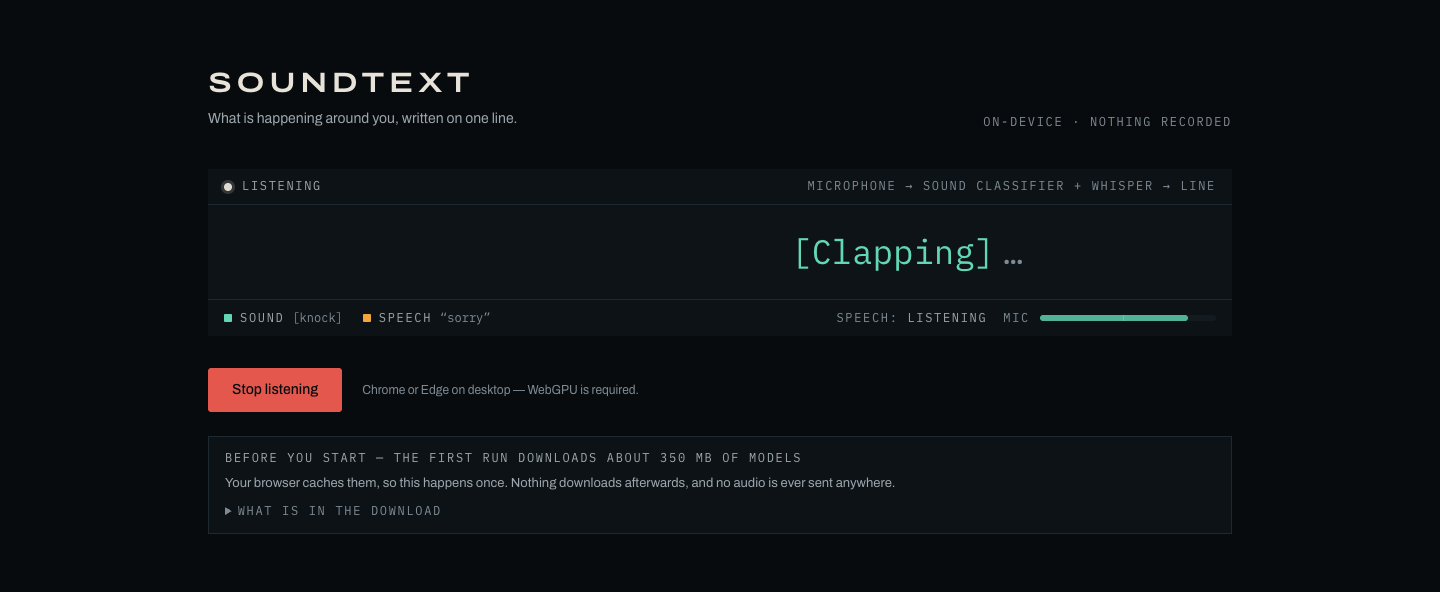
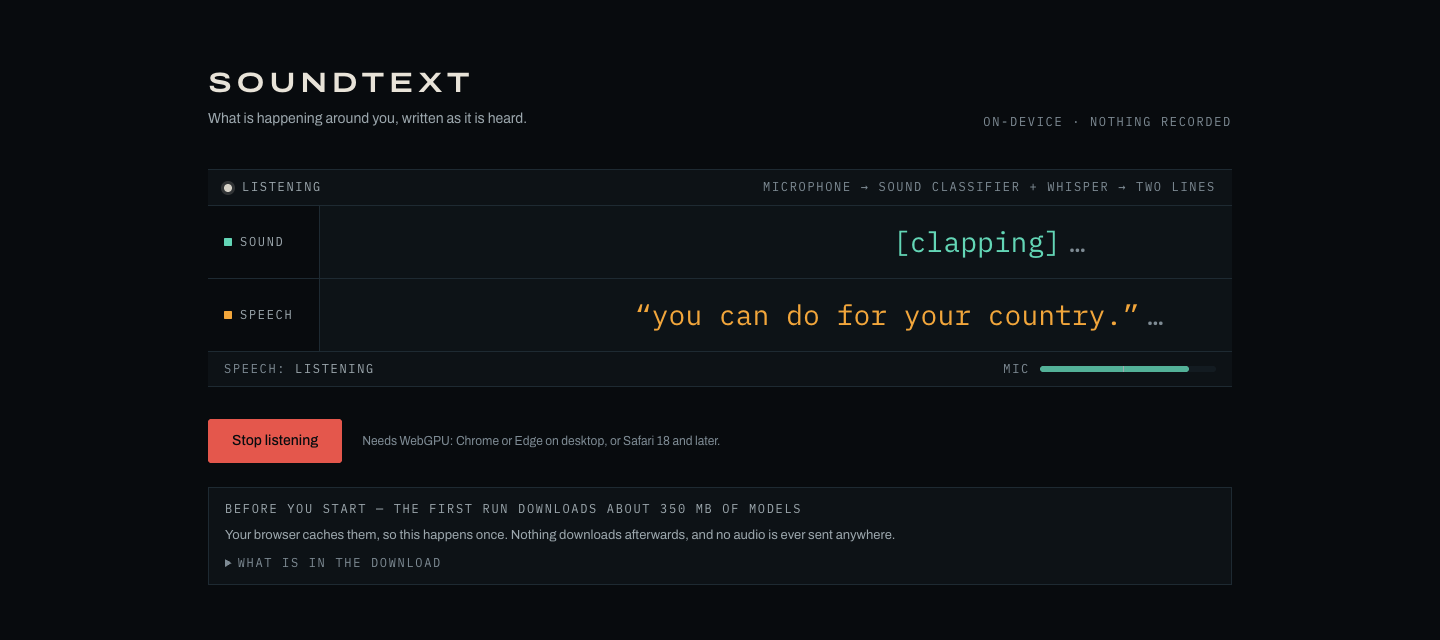
Update docs and cover for the two-lane display
Cover retaken with a mic file that carries both a clap and speech, so both
lanes are live in the shot.

diff --git a/docs/architecture.md b/docs/architecture.md
@@ -13,12 +13,15 @@ mic ──► 16 kHz mono, 2 s windows, AudioWorklet (web/src/worklets/pcm-workl
                                                                │
                                         ┌──────────────────────┴──────────────────────┐
                                         ▼                                             ▼
-                              browser: rAF marquee                    glasses: tickerText(queue)
-                              (smooth, 70 px/s)                       (snapshot on change)
+                              browser: two lanes, rAF marquee        glasses: tickerText(queue)
+                              (sound above, speech below,            (snapshot on change)
+                               90 px/s, filtered by kind)
 ```
 
-The two paths never share a model and never block each other. Speech's model
-download happens in the background after the sound path is already live.
+The two paths never share a model and never block each other — including on
+screen: each lane positions its own tokens, so a slow transcript cannot hold up
+a sound. Speech's model download happens in the background after the sound path
+is already live.
 
 ## Sound path — `web/src/lib/sound.ts`
 
@@ -31,6 +34,13 @@ download happens in the background after the sound path is already live.
 3. **Noteworthiness.** A label is queued only if it clears `MIN_SOUND_SCORE`
    (0.2), differs from the last one shown, and respects `SOUND_COOLDOWN_MS`
    (2 s). The same label re-announces after `SOUND_RENOTIFY_MS` (12 s).
+4. **Speech ownership.** AST also labels speech, and it fires first: `[Speech]`
+   lands a second or two before the transcript and says less. Labels in
+   `SPEECH_LABELS` are dropped **while the speech channel is listening** — if
+   Whisper is unavailable, `[Speech]` is the only signal there is, so it stays.
+   Labels Whisper cannot transcribe (`Whispering`, `Chatter`,
+   `Hubbub, speech noise, speech babble`) are never dropped: they carry news
+   the transcript will not carry.
 
 ### Why a trained classifier, not embeddings
 
@@ -67,9 +77,13 @@ bundler-usable location. The ORT version must match the one vad-web resolves.
 
 ## Display — `web/src/components/Ticker.tsx`
 
-One line, constant speed, tokens entering right and exiting left.
-`TickerItem[]` is the source of truth; `tickerText(items, max)` renders the same
-queue as a single line.
+Two lanes, constant speed, tokens entering right and exiting left. The upper
+lane takes `kind: "sound"`, the lower takes `kind: "speech"`, and each lane runs
+its own rAF loop and its own token positions. Sound labels are lower-cased on
+the way into the queue (model output `Clapping` prints as `[clapping]`);
+transcripts keep their own casing because they are quotes. `TickerItem[]` is the
+source of truth; `tickerText(items, max)` renders a lane, or both merged, as a
+single line.
 
 Two details worth preserving:
 

diff --git a/web/README.md b/web/README.md
@@ -1,7 +1,7 @@
 # SoundText
 
 PoC: a single-page webapp that listens to the microphone and shows a stream of
-what it hears — sound events and nearby speech — as one ticker.
+what it hears as two scrolling lines: sound events above, nearby speech below.
 
 - **Stack:** Vite + React + TypeScript + Tailwind CSS (v4), no backend
 - **Sound events:** [AST](https://huggingface.co/onnx-community/ast-finetuned-audioset-10-10-0.4593-ONNX) — an AudioSet-trained classifier (527 classes) via transformers.js on WebGPU
@@ -43,6 +43,12 @@ which is what makes `navigator.gpu` available (it is `undefined` on
 4. A label reaches the ticker only if it clears `MIN_SOUND_SCORE` (0.2) and
    differs from the last one shown (`SOUND_COOLDOWN_MS` bounds the rate; the
    same label re-announces after `SOUND_RENOTIFY_MS`).
+5. Labels in `SPEECH_LABELS` (`Speech`, `Conversation`, and similar) are
+   dropped while the speech channel is listening. AST fires first with the
+   vaguer token, and the transcript says the same thing better. If Whisper is
+   unavailable, `[Speech]` is the only signal left, so it is kept.
+   `Whispering`, `Chatter` and `Hubbub, speech noise, speech babble` are never
+   dropped — Whisper cannot transcribe those, so they stay as sound events.
 
 **Speech path** (`src/lib/speech.ts`)
 
@@ -55,11 +61,14 @@ weights in a bundler-usable location.
 
 **Display** (`src/components/Ticker.tsx`)
 
-One line, moving right→left: sounds as `[clap]`, speech as `“sorry”`. Tokens
-queue behind whatever is still on screen, so a burst of detections streams in
-one at a time rather than dumping. `tickerText(queue)` renders the same queue as
-a single line for a Meta glasses layout (DAT has no partial updates, so the
-glasses get whole snapshots re-sent on change, not a pixel scroll).
+Two lanes, moving right→left: `[clap]` on the sound lane, `“sorry”` on the
+speech lane. Each lane owns its rAF loop and its token positions, so a slow
+transcript cannot hold up a sound. Tokens queue behind whatever is still on
+screen in that lane, so a burst of detections streams in one at a time rather
+than dumping. Sound labels are lower-cased in the queue; transcripts are not.
+`tickerText(queue)` renders a lane as a single line for a Meta glasses layout
+(DAT has no partial updates, so the glasses get whole snapshots re-sent on
+change, not a pixel scroll).
 
 ## Why not EmbeddingGemma zero-shot
 

diff --git a/README.md b/README.md
@@ -1,10 +1,10 @@
 # SoundText
 
-![The SoundText demo page. The wordmark, a live line that reads [Clapping], and the two channel keys for sound and speech.](docs/cover.png)
+![The SoundText demo page: the wordmark, two labelled lanes scrolling [clapping] and a transcript, and the live status row.](docs/cover.png)
 
 SoundText is an ambient-awareness proof of concept. A device listens to its
-surroundings. It shows what it hears on one line: sound events and nearby
-speech.
+surroundings. It shows what it hears on two moving lines: sound events on the
+upper line, speech on the lower one.
 
 Motivating use case: a person wears earphones, and optionally Meta Ray-Ban
 Display glasses. The person cannot hear the surroundings, but wants to know
@@ -23,18 +23,20 @@ soundtext/
 
 ## What it does
 
-Two independent pipelines in the browser feed one ticker. The ticker is a
-single line of text. The pipelines stay separate on purpose. Speech recognition
-must never delay sound detection.
+Two independent pipelines in the browser feed the two lanes. The upper lane
+carries sound events. The lower lane carries speech. The pipelines stay
+separate on purpose: speech recognition must never delay sound detection.
 
 | Pipeline | Model | Runtime |
 |---|---|---|
 | **Sound events** | AST, an AudioSet classifier with 527 classes | transformers.js / ONNX on WebGPU |
 | **Speech** | Whisper-base, gated by Silero VAD | transformers.js + `@ricky0123/vad-web` |
 
-A sound event shows as `[clap]`. Speech shows as `“sorry”`. The ticker moves
-from right to left. `tickerText(queue)` is the single-line form for a Meta
-glasses layout. The glasses cannot animate, so they receive whole snapshots.
+A sound event shows as `[clap]`, always in lower case. Speech shows as
+`“sorry”`, and keeps the casing of the transcript. Both lanes move from right
+to left. `tickerText(queue)` merges a lane into the single line
+a Meta glasses layout needs. The glasses cannot animate, so they receive whole
+snapshots.
 
 Everything runs on the device. Audio never leaves the machine. **WebGPU is
 required** (Chrome or Edge on a desktop).
